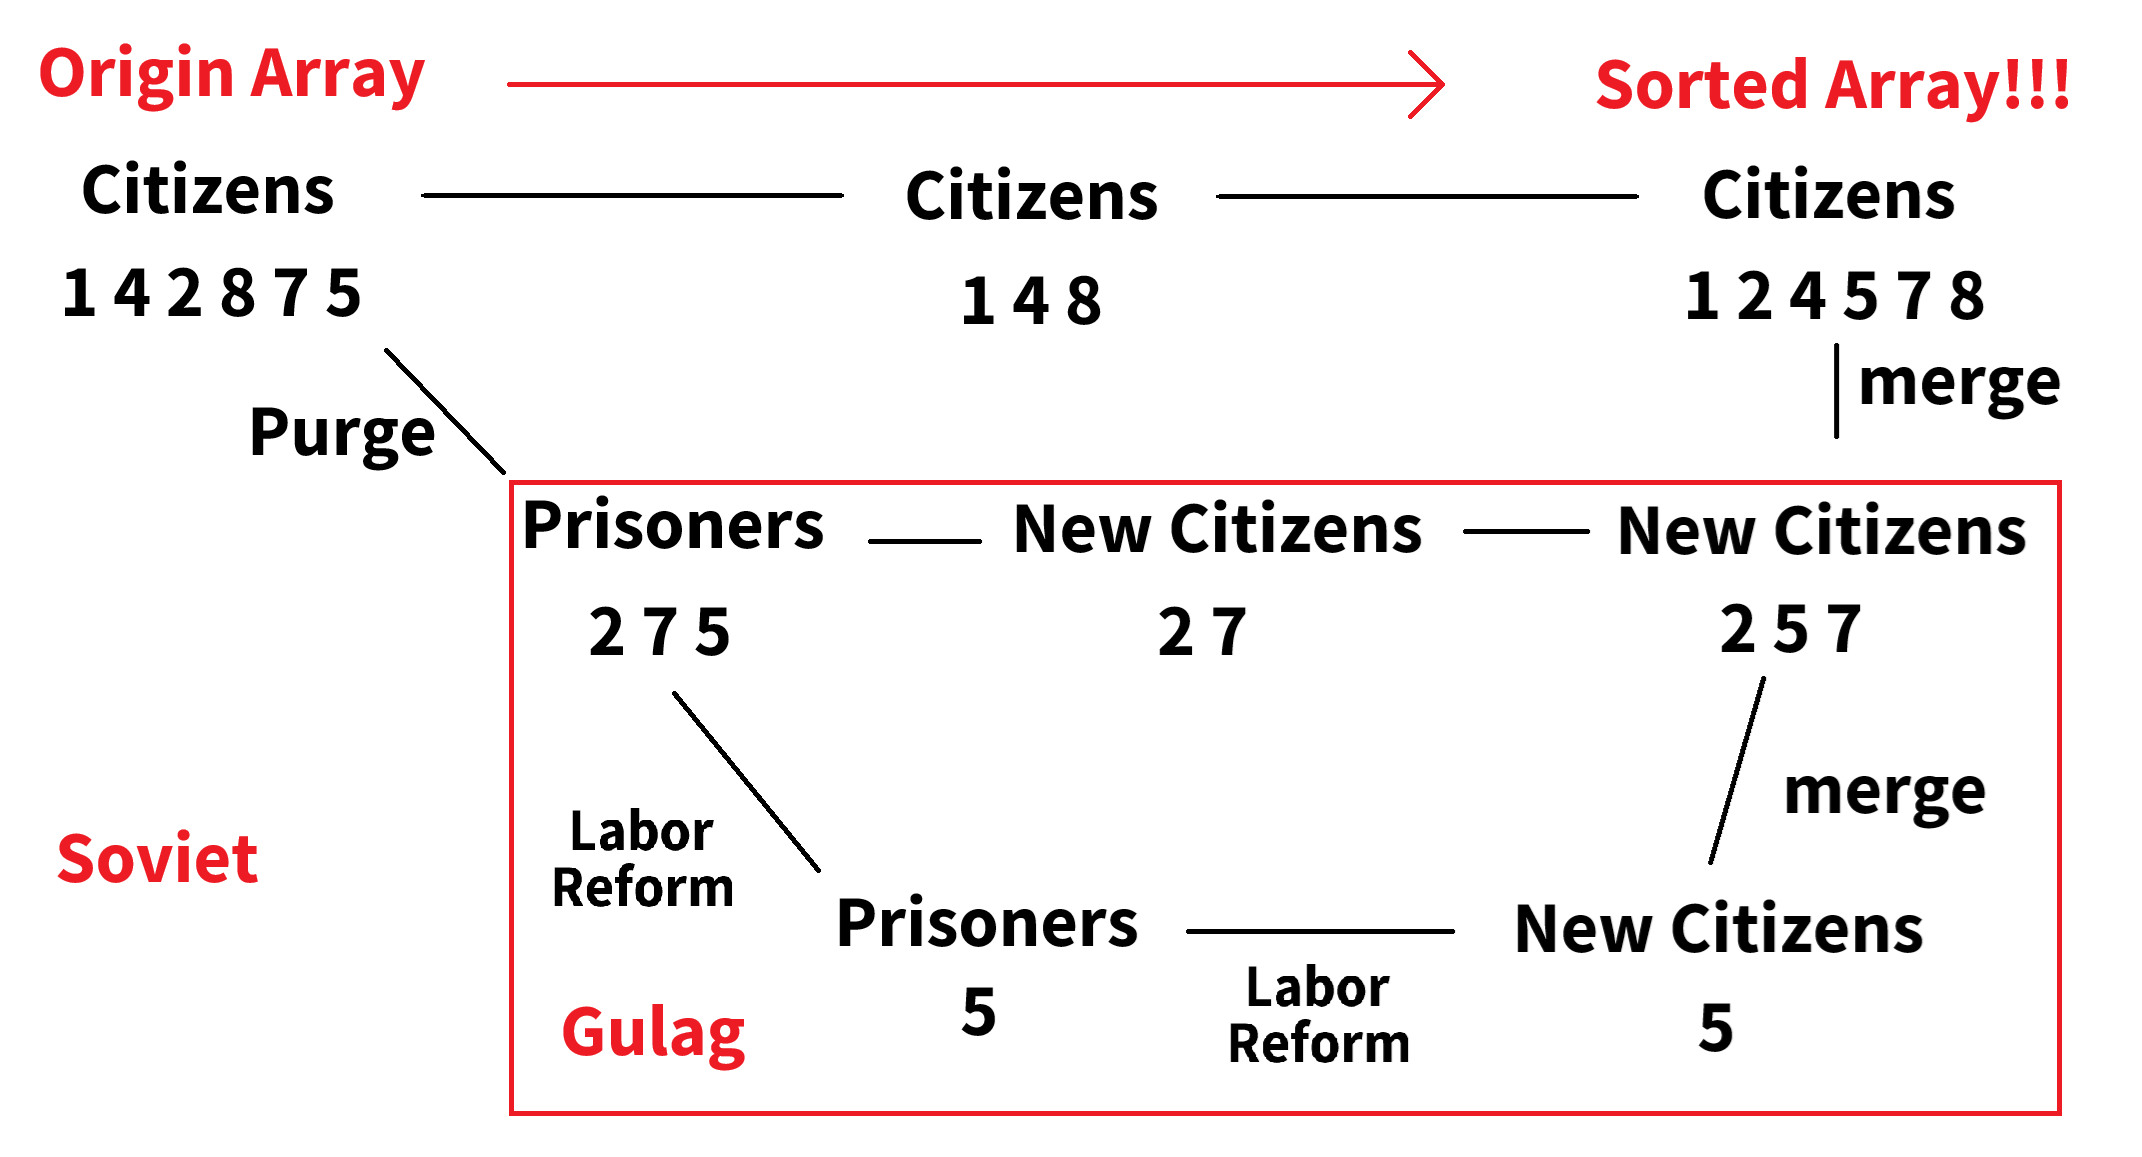
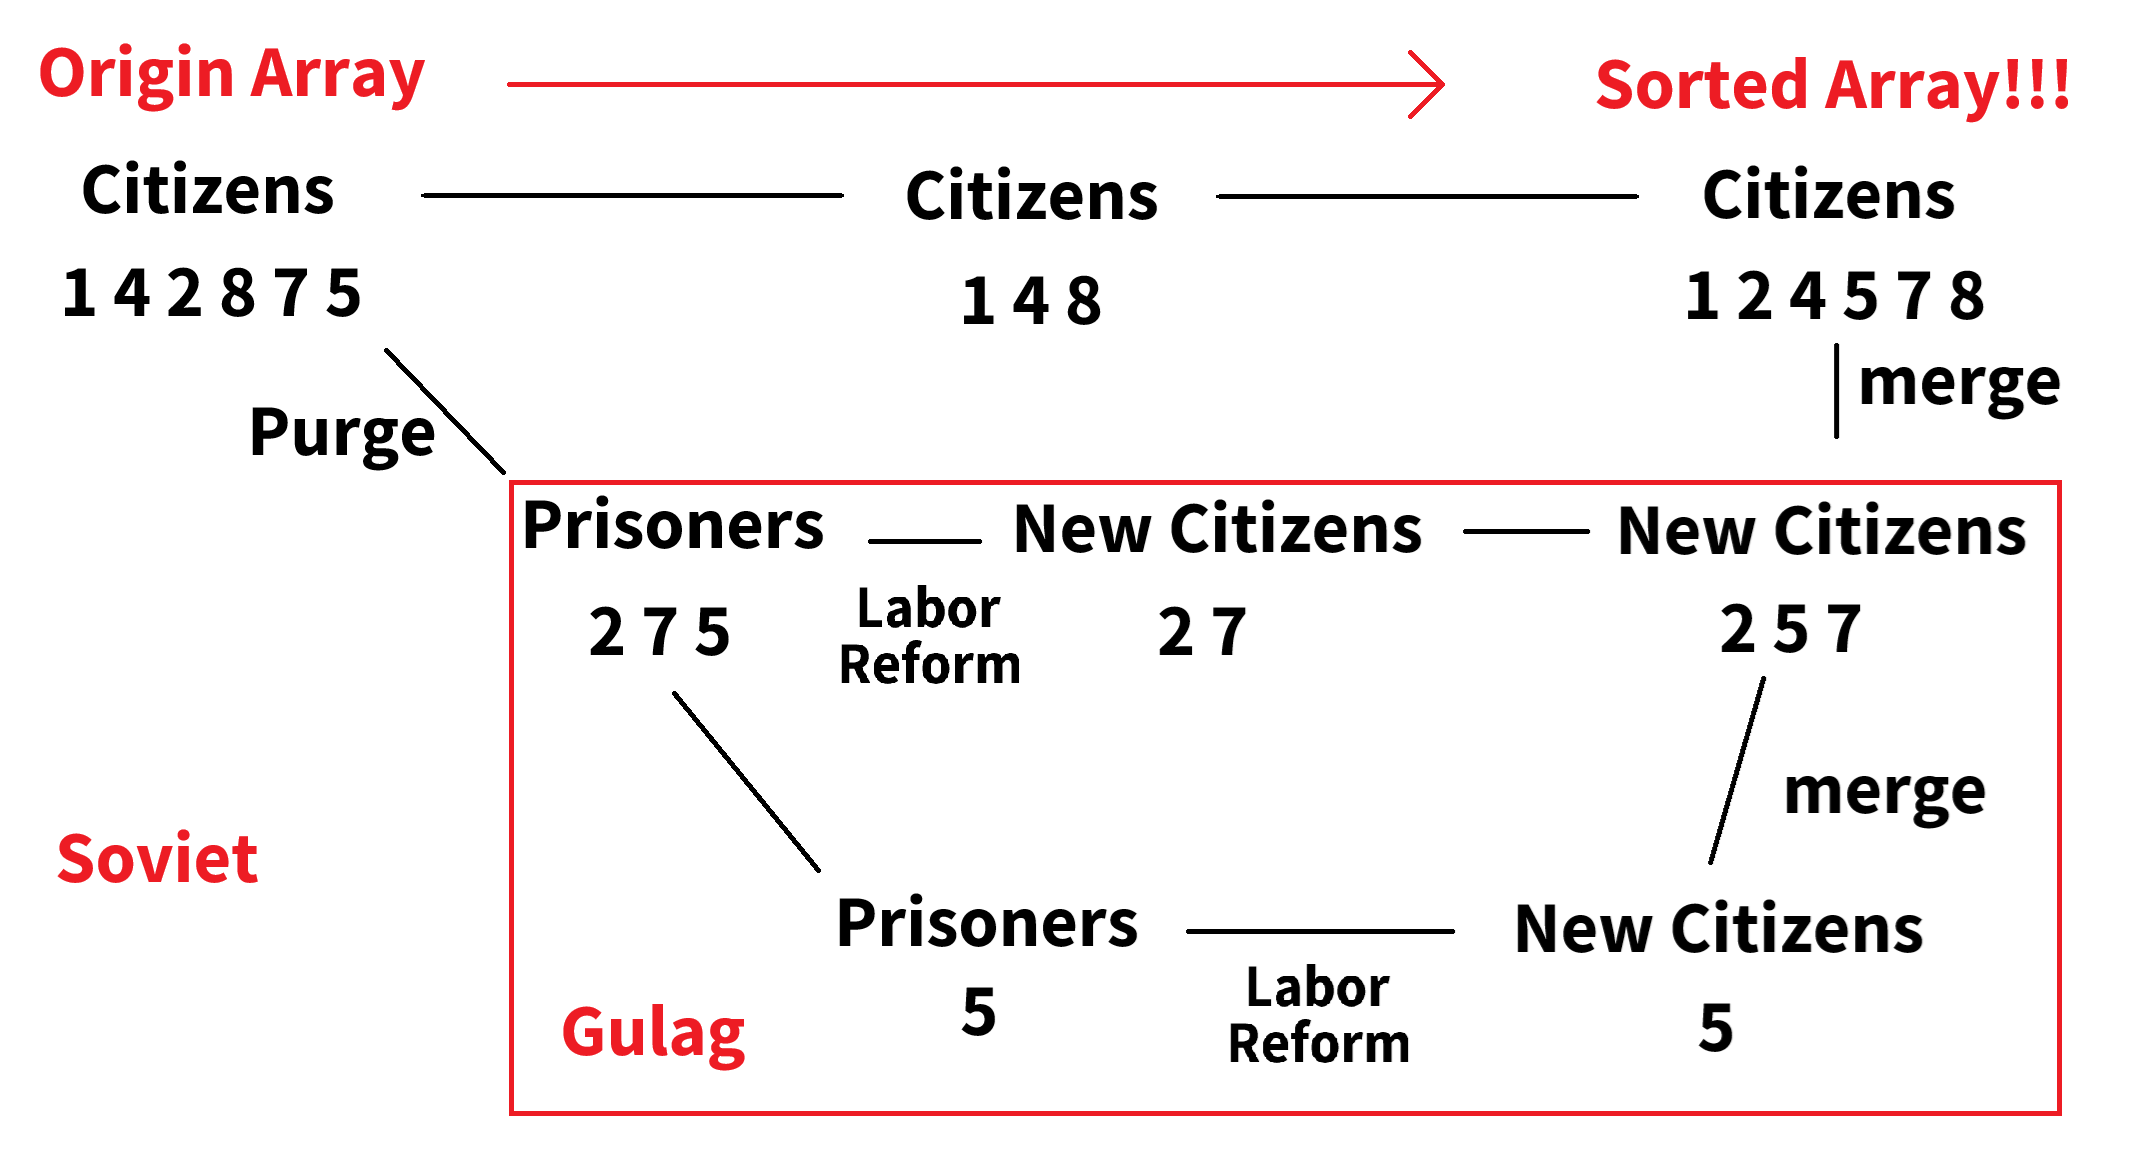
update example.png and update readme to explan the way of sorting

Changed region(s): [[0.2465, 0.6845, 0.3389, 0.809], [0.3697, 0.4978, 0.493, 0.5912]]

diff --git a/README.md b/README.md
@@ -22,46 +22,63 @@ Just
 -> AMAZING!!!
 ![](example.png)
 
-### More detail
-So there is a country call Union of Soviet Socialist Republics.
+### Different sorting methods
+We offer two sorting methods in this project.  
+First is StalinMergeSort function.
 ```cpp
-class UnionofSovietSocialistRepublics
+FlexibleArray StalinMergeSort(const FlexibleArray& old_citizens);
 ```
-There are many citizens in this country.
+This is a normal sorting method.  
+But this is not in line with socialism.  
+
+So we have second kind of sorting method.  
+You need to ...
 ```cpp
-FlexibleArray citizens
+// Create an UnionofSovietSocialistRepublics.
+Soviet::UnionofSovietSocialistRepublics soviet_socialist_republic_federation;
+
+// Add some citizens.
+soviet_socialist_republic_federation.AddCitizen(2);
+soviet_socialist_republic_federation.AddCitizen(10);
+soviet_socialist_republic_federation.AddCitizen(9);
+
+// And do the StalinMergeSort. (The Purge)
+soviet_socialist_republic_federation.StalinMergeSort();
 ```
-There is also a Gulag prison within this country.
+The StalinMergeSort function will do a Purge to the citizens.  
+Then send the people who purged to the Gulag and reform them into the "New Citizens".  
+And finally, The "New Citizens" will merged into the citizens.  
+Now you have a sorting method that is in line of socialism.
+
+# More detail
+### About the code
+We made a dynamic array that call ```FlexibleArray``` in this project.  
+This allows us to control the underlying memory management.  
+However, this is an unsafe approach for a C++ project.
+
+### C++ implementation
 ```cpp
-class Gulag
-```
-You can call the function StalinMergeSort to sort the citizens.
-```cpp
-UnionofSovietSocialistRepublics.StalinMergeSort()
-```
-It will Purge the citizens of this country. Yes, Purge by the Stalin Sort.
-```cpp
-UnionofSovietSocialistRepublics.Purge()
-```
-After Purge, the government will send those who were Purged to the Gulag. And implementing the LaborReform. Yes, also LaborReform by the Stalin Sort.
-```cpp
-gulag.LaborReform();
-```
-After once LaborReform, bring those who experienced the reformes back to the society and become your New Citizens.
-```cpp
-UnionofSovietSocialistRepublics.AcceptNewCitizens();
-```
-Repeat this process multiple times. Until there are no more prisoners in the Gulag.
-```cpp
-void StalinMergeSort() {
-    Purge();
-    while (gulag.Population() > 0) {
-        gulag.LaborReform();
-        AcceptNewCitizens();
+FlexibleArray StalinMergeSort(const FlexibleArray& old_citizens) {
+    if (old_citizens.Count() <= 1) {
+        return old_citizens;
     }
+    FlexibleArray new_citizens;
+    new_citizens.Add(old_citizens[0]);
+    FlexibleArray prisoners;
+    for (int i = 1; i < old_citizens.Count(); i++) {
+        if (new_citizens[new_citizens.Count() - 1] > old_citizens[i]) {
+            prisoners.Add(old_citizens[i]);
+        }
+        else {
+            new_citizens.Add(old_citizens[i]);
+        }
+    }
+    FlexibleArray reformed_citizens = StalinMergeSort(prisoners);
+    
+    new_citizens.Merge(reformed_citizens);
+    return new_citizens;
 }
 ```
-AMAZING, you have a sorted array now.
 
 # References and Acknowledgements
 This project references the [Stalin Sort repo](https://github.com/gustavo-depaula/stalin-sort) in the algorithm.
